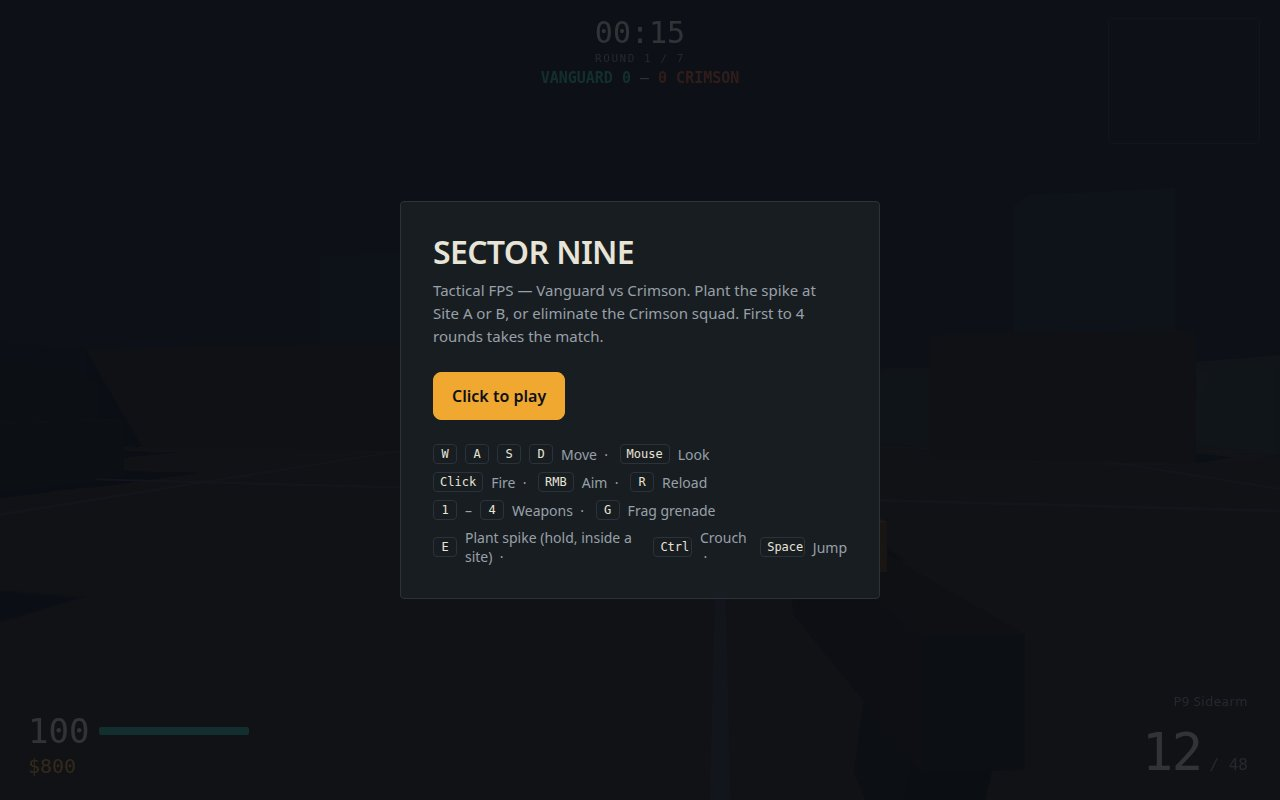
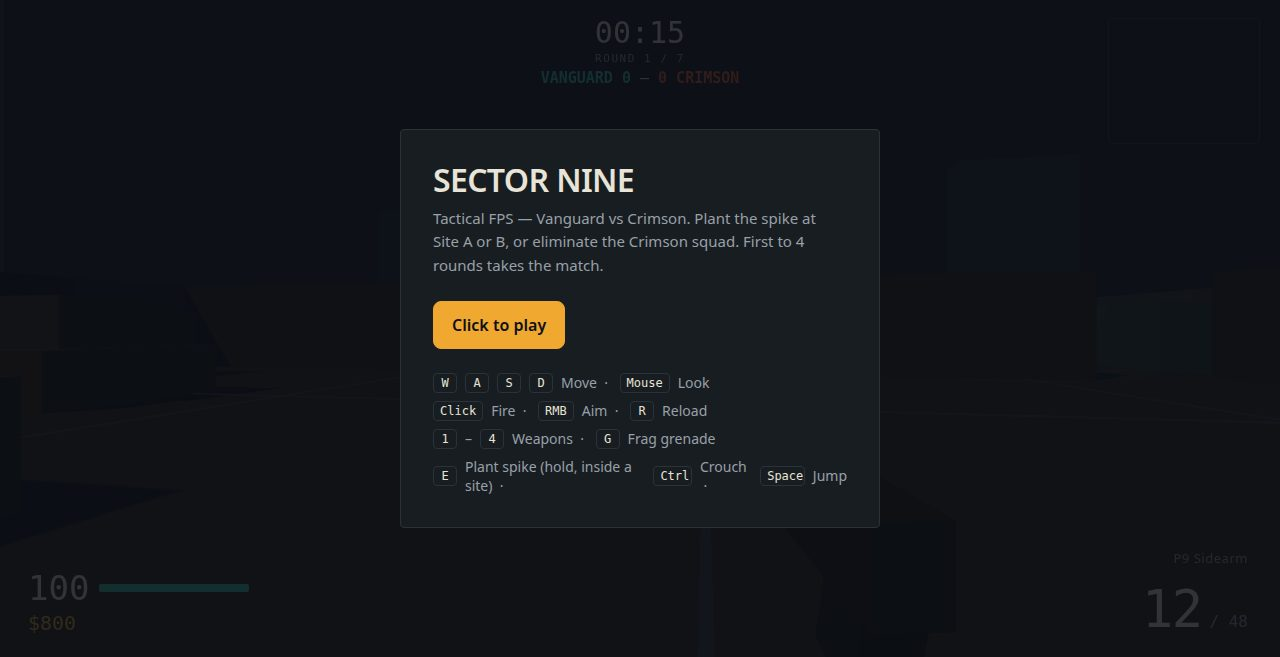
Message 2: bots fight back, radio callouts, damage direction, footsteps, economy rebalance
- Fix: Crimson defenders never targeted the player (ctx.player.alive is
  undefined; alive lives on player.state) — defenders now engage, strafe
  and shoot the player, so rounds are real fights, not target practice.
- Bots roll a per-bot skill factor (0.85-1.15) scaling reaction time and
  accuracy, and call out contacts, plants and defuses on the radio HUD.
- Damage direction indicator: a red wedge rotates to point at the shooter.
- Footstep sounds every ~2.6 m walked; radio blips.
- Economy: rifle $2700 -> $2500, sniper $4750 -> $4200, loss reward
  $200 -> $250 plus +$50 per consecutive loss (cap +$150), so buy
  decisions stay meaningful after lost rounds.
- Silence three 0.187 PCFSoftShadowMap deprecation warning (PCFShadowMap).
- Screenshots re-taken headless (0 JS errors, 0 warnings); round still
  winnable: 4/4 defenders eliminated, ROUND WON, $2,325.

diff --git a/game/src/bots.js b/game/src/bots.js
@@ -5,6 +5,9 @@
 // is planted) / defuse (the nearest defender channels the defuse).
 // Bots shoot in bursts with a reaction delay; hit chance falls with distance,
 // target speed and their own movement, so a still, aiming player wins duels.
+// Each bot rolls a skill factor (0.85–1.15) that scales its reaction time
+// and accuracy, and bots call out contacts, plants and defuses over the
+// radio so the squad feels alive.
 import * as THREE from 'three';
 import { clamp, losBlocked, moveBody } from './util.js';
 
@@ -80,8 +83,10 @@ export function createBot(scene, opts) {
     strafeUntil: 0,
     defuseProgress: 0,
     defusing: false,
+    calledDefuse: false,
     hearPos: null,
     speed: 0,
+    skill: 0.85 + random() * 0.3, // reaction time and accuracy, per bot
     deathAt: 0,
     hitMeshes: [body, head],
   };
@@ -149,6 +154,7 @@ export function createBot(scene, opts) {
     bot.lastSeen = null;
     bot.defuseProgress = 0;
     bot.defusing = false;
+    bot.calledDefuse = false;
     bot.hearPos = null;
     bot.burstLeft = 0;
     bot.waypoints = bot.homeWaypoints;
@@ -156,7 +162,8 @@ export function createBot(scene, opts) {
   }
 
   // ctx: { time, colliders, player, bots, spike, tracers, sfx, onDamagePlayer,
-  //        onDamageBot, random, isDefuser (bool, assigned by game) }
+  //        onDamageBot, random, isDefuser (bool, assigned by game),
+  //        onCallout (text) — radio line for the HUD }
   function step(dt, ctx) {
     if (!bot.alive) return;
     group.position.copy(bot.position);
@@ -170,7 +177,7 @@ export function createBot(scene, opts) {
     let visibleDist = Infinity;
     const enemies = [];
     if (bot.team === 'crimson') {
-      if (ctx.player.alive) enemies.push({ kind: 'player', ref: ctx.player, x: ctx.player.state.position.x, y: ctx.player.state.position.y + ctx.player.state.eye, z: ctx.player.state.position.z });
+      if (ctx.player.state.alive) enemies.push({ kind: 'player', ref: ctx.player, x: ctx.player.state.position.x, y: ctx.player.state.position.y + ctx.player.state.eye, z: ctx.player.state.position.z });
       for (const b of ctx.bots) if (b.team === 'vanguard' && b.alive) enemies.push({ kind: 'bot', ref: b, x: b.position.x, y: b.position.y + 1.3, z: b.position.z });
     } else {
       for (const b of ctx.bots) if (b.team === 'crimson' && b.alive) enemies.push({ kind: 'bot', ref: b, x: b.position.x, y: b.position.y + 1.3, z: b.position.z });
@@ -186,8 +193,15 @@ export function createBot(scene, opts) {
       bot.lastSeen = { x: visible.x, y: visible.y, z: visible.z, time: ctx.time };
       if (bot.state !== 'engage') {
         bot.state = 'engage';
-        bot.reactAt = ctx.time + REACT_MIN + random() * (REACT_MAX - REACT_MIN);
+        bot.reactAt = ctx.time + (REACT_MIN + random() * (REACT_MAX - REACT_MIN)) / bot.skill;
         bot.burstLeft = 0;
+        // Radio the contact, sometimes — a quiet bot is a dead giveaway that
+        // nothing is happening, and a chatty one is noise.
+        if (visible.kind === 'player' && random() < 0.4 && ctx.onCallout) {
+          ctx.onCallout(bot.name + ': Contact — Vanguard in the open!');
+        } else if (visible.kind === 'bot' && random() < 0.25 && ctx.onCallout) {
+          ctx.onCallout(bot.name + ': Contact, engaging!');
+        }
       }
       bot.target = visible;
     } else if (bot.state === 'engage' && bot.lastSeen && ctx.time - bot.lastSeen.time > 2.5) {
@@ -234,10 +248,15 @@ export function createBot(scene, opts) {
       const arrived = moveToward(site.x, site.z, WALK * 1.15, dt, ctx.colliders, random);
       bot.defusing = arrived;
       if (arrived) {
+        if (!bot.calledDefuse) {
+          bot.calledDefuse = true;
+          if (ctx.onCallout) ctx.onCallout(bot.name + ': Defusing the spike — cover me!');
+        }
         bot.defuseProgress += dt;
         bot.yaw += dt * 0.4;
         if (bot.defuseProgress >= 5) ctx.onDefused(bot);
       } else {
+        bot.calledDefuse = false;
         bot.defuseProgress = Math.max(0, bot.defuseProgress - dt * 0.5);
       }
     } else if (bot.state === 'push') {
@@ -291,9 +310,10 @@ export function createBot(scene, opts) {
     muzzle.x += Math.sin(bot.yaw) * 0.3;
     muzzle.z += Math.cos(bot.yaw) * 0.3;
     // Hit chance: close and still = deadly, far and moving = poor.
+    // A skilled bot (skill > 1) is a little faster and a little surer.
     const targetSpeed = t.kind === 'player' ? Math.hypot(ctx.player.state.velocity.x, ctx.player.state.velocity.z) : (t.ref.speed || 0);
     let chance = 0.62 - dist * 0.011 - targetSpeed * 0.035 - bot.speed * 0.02;
-    chance = clamp(chance, 0.06, 0.7);
+    chance = clamp(chance * bot.skill, 0.05, 0.75);
     const hit = ctx.random() < chance;
     const end = new THREE.Vector3();
     if (hit) {

diff --git a/game/src/game.js b/game/src/game.js
@@ -16,7 +16,9 @@ const WIN_ROUNDS = 4;
 const MAX_ROUNDS = 7;
 const KILL_REWARD = 300;
 const WIN_REWARD = 325;
-const LOSS_REWARD = 200;
+const LOSS_REWARD = 250;
+const LOSS_STREAK_BONUS = 50; // +$50 per consecutive loss, capped at +$150
+const LOSS_STREAK_CAP = 150;
 const PLANT_REWARD = 300;
 
 export function createGame(deps) {
@@ -46,6 +48,7 @@ export function createGame(deps) {
     reloadPending: false,
     defuser: null,
     elapsed: 0,
+    lossStreak: 0,
   };
   for (const id of Object.keys(WEAPONS)) {
     state.ammo[id] = { mag: WEAPONS[id].mag, reserve: WEAPONS[id].reserve };
@@ -57,6 +60,7 @@ export function createGame(deps) {
   let grenadeMesh = null;
   let explosionMesh = null;
   let explosionLife = 0;
+  let stepAcc = 0; // distance walked since the last footstep sound
 
   function shootables() {
     const list = world.shootables.slice();
@@ -231,6 +235,16 @@ export function createGame(deps) {
     if (player.state.armor) dmg = Math.round(dmg * 0.5);
     player.state.health -= dmg;
     hud.damageFlash();
+    if (fromBot) {
+      // Damage direction: angle of the shooter from the player's facing,
+      // positive to the right (0 = straight ahead).
+      const dx = fromBot.position.x - player.state.position.x;
+      const dz = fromBot.position.z - player.state.position.z;
+      const yaw = player.state.yaw;
+      const dotRight = dx * Math.cos(yaw) - dz * Math.sin(yaw);
+      const dotFwd = -dx * Math.sin(yaw) - dz * Math.cos(yaw);
+      hud.damageDirection(Math.atan2(dotRight, dotFwd) * 180 / Math.PI);
+    }
     sfx.hurt();
     hud.setHealth(player.state.health, player.state.armor);
     if (player.state.health <= 0) {
@@ -294,14 +308,19 @@ export function createGame(deps) {
     hud.setPlant(0, false, '');
     if (won) {
       state.scoreV += 1;
+      state.lossStreak = 0;
       state.money += WIN_REWARD;
       sfx.roundWin();
       hud.banner('ROUND WON', reason + '  ·  +' + formatMoney(WIN_REWARD));
     } else {
       state.scoreC += 1;
-      state.money += LOSS_REWARD;
+      state.lossStreak += 1;
+      // Losing streaks pay a little more each round, so an eco round after
+      // two losses can still buy an SMG — the buy decision stays live.
+      const lossPay = LOSS_REWARD + Math.min(LOSS_STREAK_CAP, (state.lossStreak - 1) * LOSS_STREAK_BONUS);
+      state.money += lossPay;
       sfx.roundLose();
-      hud.banner('ROUND LOST', reason + '  ·  +' + formatMoney(LOSS_REWARD));
+      hud.banner('ROUND LOST', reason + '  ·  +' + formatMoney(lossPay));
     }
     input.exitLock();
     state.time = 3.2;
@@ -329,6 +348,7 @@ export function createGame(deps) {
     state.round = 1;
     state.scoreV = 0;
     state.scoreC = 0;
+    state.lossStreak = 0;
     state.money = 800;
     state.owned = new Set(['pistol']);
     state.weaponId = 'pistol';
@@ -462,6 +482,17 @@ export function createGame(deps) {
     if (input.wasPressed('Digit3')) switchWeapon('rifle');
     if (input.wasPressed('Digit4')) switchWeapon('sniper');
 
+    // Footsteps: one soft tick per ~2.6 m walked on the ground.
+    if (player.state.alive && player.state.onGround) {
+      const spd = player.groundSpeed();
+      if (spd > 2) {
+        stepAcc += spd * dt;
+        if (stepAcc > 2.6) { stepAcc = 0; sfx.step(); }
+      } else {
+        stepAcc = 0;
+      }
+    }
+
     // Aim (right mouse): sniper scope zooms the most.
     const targetFov = input.state.aiming ? 74 / currentWeapon().zoom : 74;
     if (Math.abs(camera.fov - targetFov) > 0.1) {
@@ -482,6 +513,8 @@ export function createGame(deps) {
         state.money += PLANT_REWARD;
         hud.setPlant(0, false, '');
         hud.banner('SPIKE PLANTED AT SITE ' + site.letter, 'Defend it for ' + SPIKE_TIME + 's  ·  +' + formatMoney(PLANT_REWARD));
+        hud.radio('VANGUARD-1: Spike down at Site ' + site.letter + ' — hold the site!');
+        sfx.radio();
         sfx.spikeBeep();
         assignDefuser();
         for (const b of bots) b.hearShot(site.x, site.z);
@@ -541,6 +574,7 @@ export function createGame(deps) {
       onDamagePlayer: (dmg, fromBot) => hurtPlayer(dmg, fromBot),
       onDamageBot: (botCtrl, dmg) => onDamageBot(botCtrl, dmg),
       onDefused,
+      onCallout: (text) => { hud.radio(text); sfx.radio(); },
       isDefuser: false,
     };
     for (const b of bots) {

diff --git a/game/src/hud.js b/game/src/hud.js
@@ -20,10 +20,13 @@ export function createHud() {
     plantBar: $('plant-bar'), plantFill: $('plant-fill'), plantLabel: $('plant-label'),
     damage: $('damage'), minimap: $('minimap'),
     weaponName: $('weapon-name'), grenades: $('grenades'),
+    dmgdir: $('dmgdir'), radio: $('radio'),
   };
   const mapCtx = el.minimap.getContext('2d');
   let hitTimer = 0;
   let bannerTimer = 0;
+  let dmgTimer = 0;
+  let radioTimer = 0;
 
   function setHealth(hp, armor) {
     el.healthNum.textContent = Math.max(0, Math.ceil(hp));
@@ -63,6 +66,21 @@ export function createHud() {
   function damageFlash() {
     el.damage.style.opacity = '0.55';
     setTimeout(() => { el.damage.style.opacity = '0'; }, 120);
+  }
+
+  // Points the red wedge at the shooter: deg is the angle from the player's
+  // facing, positive to the right (0 = straight ahead).
+  function damageDirection(deg) {
+    el.dmgdir.style.transform = 'rotate(' + deg.toFixed(1) + 'deg)';
+    el.dmgdir.style.opacity = '1';
+    dmgTimer = 700;
+  }
+
+  // One radio line at a time; a new callout replaces the old one.
+  function radio(text) {
+    el.radio.textContent = text;
+    el.radio.style.opacity = '1';
+    radioTimer = 3200;
   }
 
   function killfeed(text, friendly) {
@@ -192,11 +210,19 @@ export function createHud() {
       bannerTimer -= dt * 1000;
       if (bannerTimer <= 0) hideBanner();
     }
+    if (dmgTimer > 0) {
+      dmgTimer -= dt * 1000;
+      if (dmgTimer <= 0) el.dmgdir.style.opacity = '0';
+    }
+    if (radioTimer > 0) {
+      radioTimer -= dt * 1000;
+      if (radioTimer <= 0) el.radio.style.opacity = '0';
+    }
   }
 
   return {
     setHealth, setAmmo, setWeapon, setMoney, setTimer, setScore,
-    hitMarker, damageFlash, killfeed, banner, showOverlay, hideOverlay,
+    hitMarker, damageFlash, damageDirection, radio, killfeed, banner, showOverlay, hideOverlay,
     showBuy, hideBuy, setBuyTimer, setSpike, setPlant, setCrosshairSpread,
     drawMinimap, tick,
     onPlay(fn) { el.playBtn.addEventListener('click', fn); },

diff --git a/game/index.html b/game/index.html
@@ -59,6 +59,15 @@
   #damage { position: fixed; inset: 0; pointer-events: none; opacity: 0; transition: opacity 140ms linear;
     background: radial-gradient(ellipse at center, transparent 55%, rgba(228, 87, 46, 0.55) 100%); }
 
+  /* Damage direction: a red wedge that rotates to point at the shooter. */
+  #dmgdir { position: fixed; left: 50%; top: 50%; width: 240px; height: 240px; margin: -120px 0 0 -120px; opacity: 0; pointer-events: none; transition: opacity 500ms linear; }
+  #dmgdir i { position: absolute; left: 50%; top: 6px; width: 70px; height: 16px; margin-left: -35px;
+    background: linear-gradient(180deg, rgba(228, 87, 46, .95), rgba(228, 87, 46, 0));
+    clip-path: polygon(50% 0, 100% 100%, 0 100%); }
+
+  /* Radio callouts from the bots (contact / spike / defuse). */
+  #radio { position: fixed; left: 50%; bottom: 168px; transform: translateX(-50%); font-size: 13px; font-family: var(--font-readout); color: var(--ink); background: rgba(13, 17, 23, .72); padding: 4px 10px; border-radius: 3px; opacity: 0; transition: opacity 300ms linear; pointer-events: none; white-space: nowrap; }
+
   /* Bottom-left: health + money. Bottom-right: weapon + ammo. */
   #stats { position: fixed; left: 28px; bottom: 22px; display: grid; gap: 6px; }
   #health { display: flex; align-items: center; gap: 10px; font-family: var(--font-readout); }
@@ -137,6 +146,8 @@
 
 <div id="hud" aria-hidden="true">
   <div id="damage"></div>
+  <div id="dmgdir"><i></i></div>
+  <div id="radio"></div>
   <div id="crosshair"><i></i><i></i><i></i><i></i><span class="dot"></span></div>
   <div id="hitmarker"><i></i><i></i><i></i><i></i></div>
 

diff --git a/game/src/weapons.js b/game/src/weapons.js
@@ -16,12 +16,12 @@ export const WEAPONS = {
     spread: 0.016, moveSpread: 0.03, recoil: 0.008, range: 50, zoom: 1,
   },
   rifle: {
-    id: 'rifle', name: 'AR-77 Rifle', price: 2700, damage: 33, headMult: 2.5,
+    id: 'rifle', name: 'AR-77 Rifle', price: 2500, damage: 33, headMult: 2.5,
     mag: 30, reserve: 90, auto: true, interval: 0.11, reloadTime: 1.9,
     spread: 0.009, moveSpread: 0.024, recoil: 0.013, range: 80, zoom: 1.25,
   },
   sniper: {
-    id: 'sniper', name: 'LW-50 Longshot', price: 4750, damage: 95, headMult: 2.5,
+    id: 'sniper', name: 'LW-50 Longshot', price: 4200, damage: 95, headMult: 2.5,
     mag: 5, reserve: 15, auto: false, interval: 1.15, reloadTime: 2.6,
     spread: 0.001, moveSpread: 0.05, recoil: 0.05, range: 100, zoom: 3,
   },

diff --git a/game/src/audio.js b/game/src/audio.js
@@ -80,6 +80,8 @@ export function createSfx() {
     spikeBeep() { tone(1200, 0.09, 0.3, 'sine'); },
     explosion() { noise(0.9, 300, 1.0); tone(70, 0.7, 0.6, 'sine', 30); },
     grenadePin() { tone(600, 0.04, 0.2, 'square'); },
+    step() { noise(0.05, 500, 0.14); },
+    radio() { tone(950, 0.04, 0.12, 'square'); setTimeout(() => tone(1250, 0.04, 0.12, 'square'), 55); },
     roundWin() { [523, 659, 784].forEach((f, i) => setTimeout(() => tone(f, 0.16, 0.3, 'triangle'), i * 110)); },
     roundLose() { [392, 330, 262].forEach((f, i) => setTimeout(() => tone(f, 0.18, 0.3, 'triangle'), i * 120)); },
     buy() { tone(760, 0.06, 0.25, 'sine'); setTimeout(() => tone(1010, 0.08, 0.25, 'sine'), 60); },

diff --git a/game/src/main.js b/game/src/main.js
@@ -23,7 +23,7 @@ const renderer = new THREE.WebGLRenderer({ antialias: true, powerPreference: 'hi
 renderer.setPixelRatio(Math.min(window.devicePixelRatio, 2));
 renderer.setSize(window.innerWidth, window.innerHeight);
 renderer.shadowMap.enabled = true;
-renderer.shadowMap.type = THREE.PCFSoftShadowMap;
+renderer.shadowMap.type = THREE.PCFShadowMap; // PCFSoftShadowMap was removed in three 0.187
 document.getElementById('game').appendChild(renderer.domElement);
 
 const scene = new THREE.Scene();

diff --git a/README.md b/README.md
@@ -17,14 +17,18 @@ and grenades in the buy phase between rounds.
 - **Gunplay:** raycast hits, 2.5x headshots, recoil + spread that punish
   firing on the move, acceleration, crouch, jump, AABB map collision.
 - **Tactics:** spike plant/defuse objective, buy economy ($800 start,
-  +$300 kill, +$325 round win, +$300 plant), 4 weapons + frag grenade,
+  +$300 kill, +$325 round win, +$250 round loss with a +$50 loss-streak
+  bonus capped at +$150, +$300 plant), 4 weapons + frag grenade,
   bots that patrol lanes, hold sites, react to sight and sound, rush a
-  planted spike and defuse it.
+  planted spike and defuse it — each bot rolls its own skill (reaction
+  time and accuracy) and calls out contacts, plants and defuses on the
+  radio.
 - **HUD:** health, armor, ammo, money, round timer, score, killfeed,
   minimap (enemies shown when spotted), crosshair that widens with
-  movement, hitmarker, plant/defuse progress bars.
+  movement, hitmarker, damage direction indicator, radio callouts,
+  plant/defuse progress bars.
 - **Sound:** fully procedural WebAudio (shots, hits, reload, plant beeps,
-  explosion, round stingers) — no audio assets.
+  explosion, footsteps, radio blips, round stingers) — no audio assets.
 
 ## Controls
 
